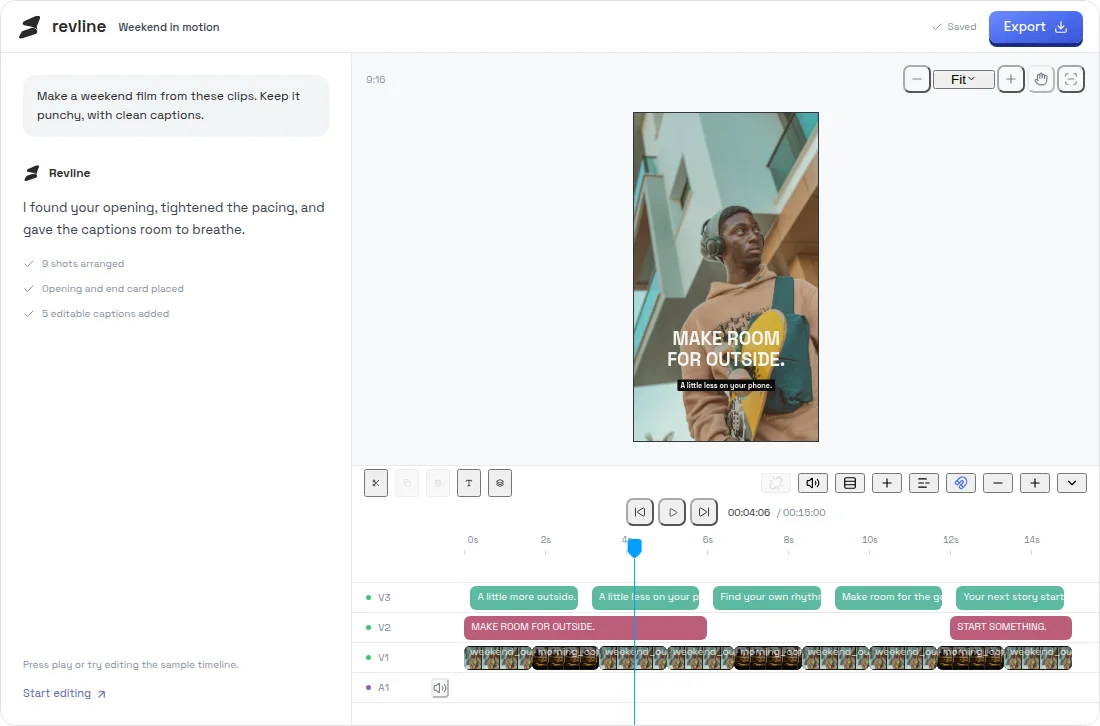
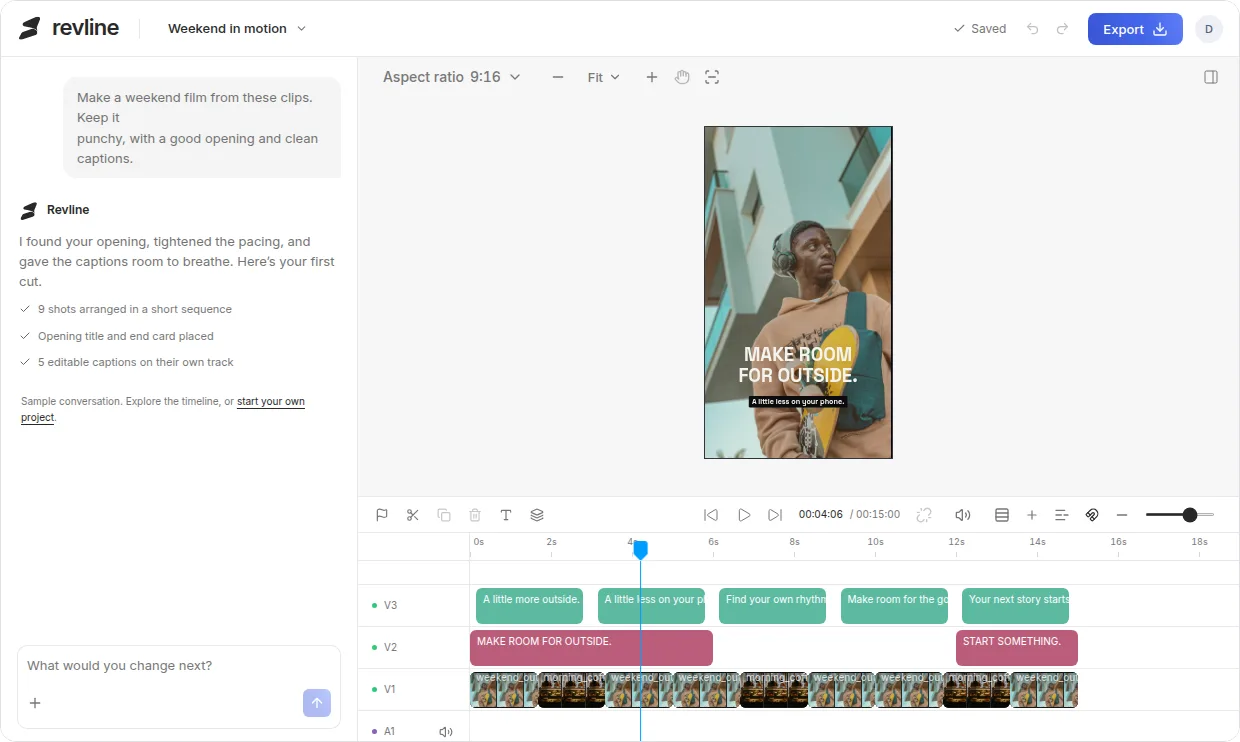
Use current shared editor shell for landing playback demo

diff --git a/app/landing.css b/app/landing.css
@@ -16,49 +16,21 @@ body:has(>.landing),body:has(main.landing){background:#fff}
 .landing-hero-copy{display:flex;flex-direction:column;align-items:center;gap:14px;margin-bottom:40px;width:100%}
 .landing-hero-start[data-slot=button]{margin-top:12px}
 .landing-hero h1{font-size:66px;font-weight:700;letter-spacing:-2.7px;line-height:1.02;width:100%;color:#1c1c1c}.landing-hero-copy>p{width:min(750px,100%);font-size:18px;line-height:1.5;color:#696969}
-/* The landing sample shares preview playback without editing controls. */
-.landing .landing-product-demo.editor-app{--background:#fff;--foreground:#292929;--card:#fff;--secondary:#f2f3f6;--border:transparent;--input:#e4e6ec;--muted:#f2f3f6;--accent:#f2f3f6;--muted-foreground:#7a8290;--primary:#4768ef;--ws-bg:#fff;--ws-text:#292929;--ws-muted:#7a8290;--ws-surface:#f2f3f6;--ws-preview:#f7f8fb;--ws-hover:#f1f3f7;--ws-artifact-bg:#fff;--ws-artifact-border:transparent;position:relative;width:100%;height:auto;min-height:0;border:1px solid #dedfe4;border-radius:16px;overflow:hidden;background:#fff;box-shadow:none;font-family:var(--font-inter),Inter,sans-serif;text-align:left}
-.landing-product-demo::after{display:none}
-.landing-demo-nav{height:52px;min-height:52px;display:flex;align-items:center;gap:20px;padding:0 20px;background:#fff;border:0;border-bottom:1px solid #e9e9ec}
-.landing-demo-brand{flex-shrink:0}
-.landing-demo-project{min-width:0;font-size:11px;font-weight:500;white-space:nowrap;overflow:hidden;text-overflow:ellipsis;color:#394150}
-.landing-demo-saved{display:flex;align-items:center;gap:5px;margin-left:auto;color:#87909e;font-size:10px;white-space:nowrap}
-.landing-demo-nav>.revline-primary[data-slot=button]{flex-shrink:0}
-.landing-demo-nav .revline-brand{font-family:var(--font-inter),Inter,sans-serif;font-size:17px;gap:9px;letter-spacing:0}
-.landing-demo-layout{display:grid;grid-template-columns:minmax(230px,.32fr) minmax(0,.68fr);align-items:stretch;gap:0;padding:0}
-.landing-demo-chat{min-width:0;display:flex;flex-direction:column;gap:24px;padding:22px;border:0;border-right:1px solid #e9e9ec;border-radius:0;background:#fff}
-.landing-demo-request{align-self:flex-end;width:fit-content;max-width:100%;border-radius:12px;padding:12px 14px;background:#f2f3f6!important;color:#292929!important;font:400 12px/1.6 var(--font-inter),Inter,sans-serif}
-.landing-demo-response{display:flex;flex-direction:column;gap:12px}
-.landing-demo-signature{height:24px;display:flex;gap:8px;align-items:center}
-.landing-demo-signature .revline-mark{width:18px;height:18px}
-.landing-demo-signature strong{font-size:12px;font-weight:600}
-.landing-demo-response>p{font:400 13px/1.7 var(--font-inter),Inter,sans-serif;color:#394150}
-.landing-demo-tools{display:flex;flex-direction:column;gap:9px;margin-top:2px}
-.landing-demo-tools>span{display:flex;align-items:center;gap:7px;font-size:10px;line-height:1.6;color:#87909e}
-.landing-demo-tools svg{flex-shrink:0}
-.landing-demo-chat-footer{display:flex;flex-direction:column;align-items:flex-start;gap:12px;margin-top:auto;padding-top:28px}
-.landing-demo-chat-footer>p{font-size:10px;line-height:1.7;color:#87909e}
-.landing-demo-chat-footer>a{display:inline-flex;align-items:center;gap:4px;color:#5266b9;font-size:11px;line-height:1.6}
-.landing-demo-workspace{display:flex;flex-direction:column;gap:0;min-width:0;min-height:0}
-.landing-demo-preview{min-width:0;display:flex;flex-direction:column;gap:8px;padding:12px 14px;border:0;border-radius:0;background:#f7f8fb;overflow:hidden}
-.landing .landing-demo-preview-toolbar.canvas-toolbar{height:28px;min-height:28px;display:flex;align-items:center;justify-content:space-between;padding:0;gap:12px;border:0;background:transparent;color:#88919f;font-size:10px}
-.landing .landing-demo-preview-toolbar .preview-zoom-controls{margin-left:auto}
-.landing .landing-demo-preview-toolbar .preview-zoom-controls [data-slot=button]{color:#7a8290}
-.landing .landing-demo-preview-stage.stage-center{height:clamp(320px,32vw,440px);min-height:0;flex:none;width:100%;overflow:hidden;border-radius:0;background:#f7f8fb}
-.landing .landing-demo-preview .preview-viewport{--preview-viewport-padding:12px}
-.landing .landing-demo-preview .preview-canvas{border:0;border-radius:0;box-shadow:none}
-.landing-demo-timeline{height:260px;flex:none;min-width:0;overflow:hidden;border-top:1px solid #e9e9ec;background:#fff}
-.landing-demo-timeline.is-collapsed{height:56px}
-.landing .landing-demo-timeline .timeline-panel{height:100%;padding:0}
-.landing-demo-text-dialog{--ws-bg:#fff;--ws-text:#292929;--ws-surface:#f2f3f6;--ws-artifact-border:#dedfe4;--ws-muted:#7a8290}
+/* The live sample shares the current editor shell and controls. */
+.landing-product-demo{width:100%;min-width:0;border:1px solid #dedfe4;border-radius:16px;overflow:hidden;text-align:left}
+.landing .landing-product-demo>.editor-app{--background:#fff;--foreground:#292929;--card:#fff;--card-foreground:#292929;--secondary:#f4f4f4;--secondary-foreground:#292929;--muted:#f4f4f4;--muted-foreground:#777;--accent:#f4f4f4;--accent-foreground:#292929;--border:#e9e9e9;--input:#f7f7f7;--ws-bg:#fff;--ws-text:#292929;--ws-muted:#777;--ws-surface:#fff;--ws-preview:#f7f7f7;--ws-hover:#f4f4f4;--ws-border:#e9e9e9;--ws-artifact-bg:#fff;--ws-artifact-border:#e9e9e9;--ws-input:#f7f7f7;--ws-composer-bg:#fff;--ws-composer-border:#cdd1d8;--ws-chip:#f2f2f2;--ws-chip-text:#555;--ws-bubble:#f2f2f2;height:740px;min-height:0;width:100%;background:#fff;font-family:var(--font-inter),Inter,sans-serif}
+.landing-product-demo .workspace-nav{padding-inline:16px}
+.landing-product-demo .workspace-nav-brand{flex-shrink:0}
+.landing-product-demo .editor-sidebar{padding:18px 16px}
+@media(max-width:760px){.landing .landing-product-demo>.editor-app{height:680px}.landing-product-demo .workspace-nav{padding-inline:10px}}
 .landing-workflow{padding-block:64px 88px;display:flex;flex-direction:column;gap:36px;align-items:center}.landing-workflow-grid{display:grid;grid-template-columns:repeat(3,minmax(0,1fr));gap:20px;width:100%}.landing-workflow-card{height:430px;border:0;box-shadow:inset 0 0 0 1px #e3e3e3;border-radius:16px;padding:20px;display:flex;flex-direction:column;gap:22px}.landing-workflow-visual{height:280px;flex-shrink:0;display:flex;flex-direction:column;align-items:center;justify-content:center;gap:20px;padding:20px;border:0;box-shadow:inset 0 0 0 1px #e7e7e7;border-radius:10px;background:#f7f7f7;overflow:hidden;font-family:var(--font-inter),Inter,sans-serif}.landing-workflow-copy{display:flex;flex-direction:column;gap:10px}.landing-workflow-copy h3{font-size:22px;font-weight:500;letter-spacing:-.5px;line-height:1.2;color:#292929}.landing-workflow-copy p{font-size:15px;line-height:1.5;color:#777}.landing-workflow-footage{display:flex;width:100%;height:150px;gap:10px}.landing-workflow-footage img{width:calc((100% - 20px)/3);height:100%;object-fit:cover;border-radius:6px}.landing-workflow-files{height:20px;display:flex;align-items:center;justify-content:center;gap:8px;font-size:11px;color:#777;white-space:nowrap}.landing-workflow-files svg{color:#8b8b8b;flex-shrink:0}.landing-workflow-request{width:264px;max-width:100%;margin-left:auto;padding:11px 14px;background:#ededed;border-radius:10px;font-size:12px;line-height:1.6;color:#3e3e3e}.landing-workflow-answer{display:flex;flex-direction:column;gap:10px;width:100%}.landing-workflow-answer>div{display:flex;gap:7px;align-items:center;height:20px;font-size:12px;color:#393939}.landing-workflow-answer .revline-mark{width:20px;height:20px}.landing-workflow-answer strong{font-weight:500}.landing-workflow-answer p{font-size:12px;line-height:1.7;color:#777}.landing-workflow-film{position:relative;width:108px;height:192px;border-radius:6px;overflow:hidden}.landing-workflow-film img{object-fit:cover;width:100%;height:100%}.landing-workflow-film strong{position:absolute;left:8px;top:140px;font-size:13px;line-height:1.08;font-weight:700;color:white;width:92px}.landing-workflow-export{height:28px;display:flex;align-items:center;gap:12px;width:100%;font-size:11px;color:#777;margin-top:-2px}.landing-workflow-export>span{flex:1;white-space:nowrap}.landing .landing-workflow-export-button[data-slot=button]{height:28px;padding-inline:11px;gap:7px;font-size:11px;border-radius:8px;font-family:var(--font-inter),sans-serif}
 .landing-pricing{padding-block:88px;border-top:1px solid #eaeaea;display:flex;gap:120px;align-items:center}.landing-pricing-copy{flex:1;display:flex;flex-direction:column;gap:18px}.landing-pricing-copy h2{font-size:48px;line-height:1.12;letter-spacing:-1.8px}.landing-pricing-copy p{font-size:16px;line-height:1.5;width:460px;max-width:100%}.landing-price-card{width:400px;flex-shrink:0;border:1px solid #e1e1e1;border-radius:16px;padding:28px;background:#fafafa;display:flex;flex-direction:column;gap:22px}.landing-price-card h3{font-size:20px;font-weight:500;letter-spacing:-.5px;line-height:1.2;color:#262626}.landing-price{display:flex;gap:10px;align-items:flex-end}.landing-price strong{font-size:60px;font-weight:500;line-height:1;letter-spacing:-2.5px}.landing-price>div{display:flex;flex-direction:column;gap:4px;padding-bottom:5px}.landing-price span{font-size:15px;color:#737373}.landing-price small{font-size:11px;color:#949494}.landing-price-disclosure{font-size:14px;line-height:1.6}.landing-price-card hr{border:0;background:#e5e5e5;height:1px;margin:0}.landing-price-card ul{list-style:none;padding:0;display:flex;flex-direction:column;gap:12px}.landing-price-card li{display:flex;gap:9px;align-items:center;font-size:14px;line-height:1;color:#565656}.landing-price-card li svg{color:#818181;flex-shrink:0}.landing .landing-pricing-button[data-slot=button]{width:100%}
 .landing-faq{padding-block:88px;display:flex;gap:96px;border-top:1px solid #eaeaea}.landing-faq h2{width:380px;flex-shrink:0;font-size:36px;line-height:1.15;letter-spacing:-1.1px}.landing-faq-list{flex:1;min-width:0}.landing-faq details{padding:22px 0;border-bottom:1px solid #e4e4e4}.landing-faq summary{list-style:none;display:flex;align-items:center;gap:24px;cursor:pointer;font-size:17px;font-weight:500;line-height:1.4;color:#292929}.landing-faq summary::-webkit-details-marker{display:none}.landing-faq summary>span{margin-left:auto;display:grid;place-items:center;width:24px;height:24px;flex-shrink:0;color:#858585}.landing-faq details p{font-size:15px;line-height:1.65;margin-top:12px;color:#737373}.landing-faq-minus,.landing-faq details[open] .landing-faq-plus{display:none}.landing-faq details[open] .landing-faq-minus{display:block}
 .landing-final-cta{border-top:1px solid #eaeaea;padding-block:64px 72px;display:flex;flex-direction:column;align-items:center;gap:28px;text-align:center}.landing-final-copy{display:flex;flex-direction:column;gap:14px}.landing-final-copy h2{font-size:48px;line-height:1.12;letter-spacing:-1.8px}.landing-final-copy p{font-size:16px;line-height:1.5}.landing-final-action{display:flex;flex-direction:column;gap:16px;align-items:center}
 .landing-footer{border-top:1px solid #e6e6e6;display:flex;flex-direction:column;gap:28px;padding-block:36px 24px}.landing-footer-top,.landing-footer-bottom{display:flex;align-items:center}.landing-footer-top{gap:40px}.landing-footer-top nav{display:flex;align-items:center;gap:26px;margin-left:auto;font-size:14px;color:#696969}.landing-footer-bottom{gap:24px}.landing-footer-bottom p{font-size:12px;color:#909090}.landing-footer-links{display:flex;gap:24px;margin-left:auto}.landing-footer-link{border:0;background:none;padding:0;color:#808080;font:400 12px var(--font-space-grotesk),sans-serif}.landing-legal-dialog,.landing-footage-sheet{background:#fff;color:#292929;color-scheme:light;font-family:var(--font-inter),Inter,sans-serif}.landing-legal-dialog [data-slot=dialog-description]{color:#737373;line-height:1.65}.landing-footage-grid{display:grid;grid-template-columns:1fr 1fr;gap:16px;margin:24px 0}.landing-footage-grid figure{margin:0}.landing-footage-grid img{width:100%;height:140px;object-fit:cover;border-radius:8px}.landing-footage-grid figcaption{font-size:12px;margin-top:8px;color:#737373}
 @media(min-width:1441px){.landing-section{padding-inline:100px}}
-@media(max-width:1100px){.landing-container{width:calc(100% - 80px)}.landing-section{padding-inline:40px}.landing-hero{padding:72px 40px 48px}.landing-nav{gap:24px}.landing-hero h1{font-size:58px}.landing-demo-nav{gap:12px;padding-inline:16px}.landing-demo-history{display:none}.landing-pricing{gap:64px}.landing-faq{gap:48px}.landing-faq h2{width:300px}.landing-workflow-card{padding:16px;height:430px}.landing-workflow-visual{padding:16px}.landing-workflow-files{font-size:9px;gap:4px}.landing-workflow-copy h3{font-size:20px}.landing-workflow-copy p{font-size:14px}.landing-workflow-export{gap:5px}.landing-workflow-export>span{font-size:9px}.landing .landing-workflow-export-button[data-slot=button]{padding-inline:8px;font-size:10px}}
-@media(max-width:760px){.landing-container{width:calc(100% - 40px)}.landing-section{padding-inline:20px}.landing-nav{height:72px;gap:20px}.landing-nav .revline-brand{font-size:22px}.landing-hero{padding:56px 20px 40px;gap:0}.landing-hero h1{font-size:44px;letter-spacing:-1.7px}.landing-hero-copy>p{font-size:16px}.landing h2{font-size:32px;letter-spacing:-1px}.landing-demo-nav{height:48px;min-height:48px;padding-inline:14px;gap:12px}.landing-demo-project{max-width:140px;font-size:10px}.landing-demo-saved{display:none}.landing-demo-nav>.revline-primary[data-slot=button]{margin-left:auto}.landing-demo-nav .revline-brand{font-size:15px}.landing-demo-nav .revline-primary[data-slot=button]{height:28px;padding-inline:11px;font-size:11px}.landing-demo-layout{grid-template-columns:minmax(0,1fr);gap:0;padding:0}.landing-demo-chat{padding:16px;gap:16px;border-right:0;border-bottom:1px solid #e9e9ec}.landing-demo-request{font-size:12px;padding:10px 12px;max-width:280px}.landing-demo-response{gap:8px}.landing-demo-response>p{font-size:12px}.landing-demo-tools{flex-direction:row;flex-wrap:wrap;gap:6px 14px}.landing-demo-chat-footer{padding-top:0;gap:7px}.landing-demo-chat-footer>p{display:none}.landing-demo-workspace{gap:0}.landing-demo-preview{padding:10px}.landing .landing-demo-preview-stage.stage-center{height:320px;min-height:0}.landing-workflow{padding-block:40px 56px;gap:28px}.landing-workflow-grid{grid-template-columns:1fr;gap:20px}.landing-workflow-card{height:430px;padding:20px}.landing-workflow-visual{padding:20px}.landing-workflow-copy h3{font-size:22px}.landing-workflow-copy p{font-size:15px}.landing-workflow-files{font-size:11px;gap:8px}.landing-workflow-export>span{font-size:11px}.landing .landing-workflow-export-button[data-slot=button]{font-size:11px;padding-inline:11px}.landing-pricing{padding-block:56px;flex-direction:column;align-items:stretch;gap:36px}.landing-pricing-copy h2{font-size:38px}.landing-price-card{width:100%;max-width:400px;align-self:center}.landing-faq{padding-block:56px;flex-direction:column;gap:24px}.landing-faq h2{width:100%;font-size:32px}.landing-faq summary{font-size:16px}.landing-final-cta{padding-block:56px;gap:28px}.landing-final-copy h2{font-size:36px}.landing-final-copy p{font-size:15px}.landing-footer{padding-block:32px 24px;gap:24px}.landing-footer-top{flex-direction:column;align-items:flex-start;gap:24px}.landing-footer-top nav{margin:0;gap:20px;flex-wrap:wrap;font-size:13px}.landing-footer-bottom{align-items:flex-start}.landing-footer-links{gap:16px}.landing-footer-link{font-size:11px}}
+@media(max-width:1100px){.landing-container{width:calc(100% - 80px)}.landing-section{padding-inline:40px}.landing-hero{padding:72px 40px 48px}.landing-nav{gap:24px}.landing-hero h1{font-size:58px}.landing-pricing{gap:64px}.landing-faq{gap:48px}.landing-faq h2{width:300px}.landing-workflow-card{padding:16px;height:430px}.landing-workflow-visual{padding:16px}.landing-workflow-files{font-size:9px;gap:4px}.landing-workflow-copy h3{font-size:20px}.landing-workflow-copy p{font-size:14px}.landing-workflow-export{gap:5px}.landing-workflow-export>span{font-size:9px}.landing .landing-workflow-export-button[data-slot=button]{padding-inline:8px;font-size:10px}}
+@media(max-width:760px){.landing-container{width:calc(100% - 40px)}.landing-section{padding-inline:20px}.landing-nav{height:72px;gap:20px}.landing-nav .revline-brand{font-size:22px}.landing-hero{padding:56px 20px 40px;gap:0}.landing-hero h1{font-size:44px;letter-spacing:-1.7px}.landing-hero-copy>p{font-size:16px}.landing h2{font-size:32px;letter-spacing:-1px}.landing-workflow{padding-block:40px 56px;gap:28px}.landing-workflow-grid{grid-template-columns:1fr;gap:20px}.landing-workflow-card{height:430px;padding:20px}.landing-workflow-visual{padding:20px}.landing-workflow-copy h3{font-size:22px}.landing-workflow-copy p{font-size:15px}.landing-workflow-files{font-size:11px;gap:8px}.landing-workflow-export>span{font-size:11px}.landing .landing-workflow-export-button[data-slot=button]{font-size:11px;padding-inline:11px}.landing-pricing{padding-block:56px;flex-direction:column;align-items:stretch;gap:36px}.landing-pricing-copy h2{font-size:38px}.landing-price-card{width:100%;max-width:400px;align-self:center}.landing-faq{padding-block:56px;flex-direction:column;gap:24px}.landing-faq h2{width:100%;font-size:32px}.landing-faq summary{font-size:16px}.landing-final-cta{padding-block:56px;gap:28px}.landing-final-copy h2{font-size:36px}.landing-final-copy p{font-size:15px}.landing-footer{padding-block:32px 24px;gap:24px}.landing-footer-top{flex-direction:column;align-items:flex-start;gap:24px}.landing-footer-top nav{margin:0;gap:20px;flex-wrap:wrap;font-size:13px}.landing-footer-bottom{align-items:flex-start}.landing-footer-links{gap:16px}.landing-footer-link{font-size:11px}}
 @media(prefers-reduced-motion:reduce){.landing *{scroll-behavior:auto}}
 @media(max-width:760px){.landing-hero-copy{gap:12px;margin-bottom:28px}.landing-hero-start[data-slot=button]{margin-top:8px}}
 

diff --git a/components/landing/editor-demo.tsx b/components/landing/editor-demo.tsx
@@ -1,148 +1,9 @@
 'use client';
 
-import { useCallback, useEffect, useRef, useState } from 'react';
-import Link from 'next/link';
-import { useStore } from 'zustand';
-import { ArrowUpRight, Check, Download } from 'lucide-react';
-import { Brand } from '@/components/workspace/brand';
-import { PrimaryButton } from '@/components/workspace/primary-button';
-import { EditorStateProvider } from '@/components/editor/editor-state';
-import { EditorPlaybackControls } from '@/components/editor/playback-controls';
-import { Preview, type PreviewHandle } from '@/components/editor/preview';
-import { PreviewZoomControls, PreviewZoomProvider, PreviewViewport } from '@/components/editor/preview-zoom';
-import { TimelinePanel } from '@/components/editor/timeline';
-import { Button } from '@/components/ui/button';
-import { Dialog, DialogContent, DialogDescription, DialogTitle } from '@/components/ui/dialog';
-import { createEditorStore } from '@/lib/editor/store';
-import { DEMO_ASSETS, DEMO_TIMELINE } from '@/lib/editor/demo';
-import { addTextClip, frameSeekTime, patchClip, placeOnFreeLayer, splitClip } from '@/lib/editor/operations';
-import { isTimelineGestureRejection } from '@/lib/editor/timeline-edit-errors';
-import { dimensions, timelineDuration, normalizeTimeline, type MediaAsset, type Timeline } from '@/lib/editor/types';
+import { DemoEditor } from '@/components/editor/demo-editor';
 import '@/app/editor.css';
 
+/** The landing sample uses the current editor instead of maintaining a second layout. */
 export function ProductDemo() {
-  const [store] = useState(() => {
-    const timeline = normalizeTimeline({ ...DEMO_TIMELINE, clips: DEMO_TIMELINE.clips.map(clip => ({ ...clip, track: clip.kind === 'caption' ? 2 : 1 })) });
-    const instance = createEditorStore(timeline);
-    instance.setState({ playhead: 4.2, compactTracks: true, zoom: .75 });
-    return instance;
-  });
-  const timeline = useStore(store, state => state.timeline);
-  const selected = useStore(store, state => state.selectedId);
-  const playing = useStore(store, state => state.playing);
-  const muted = useStore(store, state => state.muted);
-  const collapsed = useStore(store, state => state.timelineCollapsed);
-  const [assets, setAssets] = useState<MediaAsset[]>(DEMO_ASSETS);
-  const [error, setError] = useState('');
-  const [editingText, setEditingText] = useState<string | null>(null);
-  const preview = useRef<PreviewHandle>(null);
-  const duration = timelineDuration(timeline);
-  const canvas = dimensions(timeline.aspectRatio);
-  const clip = timeline.clips.find(item => item.id === selected);
-  const textClip = timeline.clips.find(item => item.id === editingText);
-  const time = store.getState().playhead;
-  const setTime = useCallback((playhead: number) => store.setState({ playhead }), [store]);
-  const setPlaying = useCallback((playing: boolean) => store.setState({ playing }), [store]);
-  const readTime = useCallback(() => preview.current?.currentTime() ?? store.getState().playhead, [store]);
-  const select = (id: string | null) => store.setState({ selectedId: id, selectedIds: id ? [id] : [] });
-  const change = (next: Timeline) => { store.getState().edit(next); setError(''); };
-  const report = (message: string) => setError(message);
-  const runEdit = (edit: () => Timeline) => {
-    try { change(edit()); }
-    catch (error) { if (!isTimelineGestureRejection(error)) report(error instanceof Error ? error.message : 'This edit could not be completed.'); }
-  };
-  const editText = (id: string) => { select(id); setEditingText(id); };
-  const seek = (next: number) => {
-    const value = frameSeekTime(next, timeline.fps, duration);
-    preview.current?.pause(); preview.current?.seek(value); setTime(value);
-  };
-  const togglePlay = () => {
-    if (playing) preview.current?.pause();
-    else { if (readTime() >= duration) seek(0); preview.current?.play(); }
-  };
-  const jump = (direction: -1 | 1) => {
-    const current = readTime();
-    const cuts = [...new Set([0, duration, ...timeline.clips.filter(item => item.kind === 'video' || item.kind === 'image').flatMap(item => [item.start, item.start + item.duration])])].sort((a, b) => a - b);
-    seek(direction < 0 ? cuts.filter(cut => cut < current - 1 / timeline.fps).at(-1) ?? 0 : cuts.find(cut => cut > current + 1 / timeline.fps) ?? duration);
-  };
-  const split = () => { if (selected) runEdit(() => splitClip(timeline, selected, readTime(), crypto.randomUUID())); };
-  const remove = () => {
-    const ids = new Set(store.getState().selectedIds);
-    if (ids.size) change({ ...timeline, clips: timeline.clips.filter(item => !ids.has(item.id)) });
-  };
-  const duplicate = () => {
-    const ids = new Set(store.getState().selectedIds);
-    const originals = timeline.clips.filter(item => ids.has(item.id));
-    if (!originals.length) return;
-    const offset = Math.max(...originals.map(item => item.start + item.duration)) - Math.min(...originals.map(item => item.start));
-    runEdit(() => originals.reduce((next, item) => placeOnFreeLayer(next, { ...item, id: crypto.randomUUID(), start: item.start + offset }), timeline));
-  };
-
-  useEffect(() => {
-    let cancelled = false;
-    const images = DEMO_ASSETS.filter(asset => asset.kind === 'image' && asset.url).map(asset => {
-      const image = new Image();
-      image.onload = () => { if (!cancelled && image.naturalWidth && image.naturalHeight) setAssets(current => current.map(item => item._id === asset._id ? { ...item, width: image.naturalWidth, height: image.naturalHeight } : item)); };
-      image.src = asset.url!;
-      return image;
-    });
-    return () => { cancelled = true; images.forEach(image => { image.onload = null; }); };
-  }, []);
-
-  return <EditorStateProvider store={store}>
-    <figure className="landing-product-demo editor-app conversation-editor" aria-label="Revline sample edit" tabIndex={-1} onKeyDown={event => {
-      if ((event.target as HTMLElement).closest('input,textarea,select,button,a,[role=button],[role=menuitem]')) return;
-      if (event.code === 'Space') { event.preventDefault(); togglePlay(); }
-      else if (event.key === 'Escape') select(null);
-    }}>
-      <nav className="landing-demo-nav" aria-label="Demo editor navigation">
-        <Link href="/" className="landing-demo-brand" aria-label="Revline home"><Brand /></Link>
-        <span className="landing-demo-project">Weekend in motion</span>
-        <span className="landing-demo-saved"><Check size={12} aria-hidden="true" />Saved</span>
-        <PrimaryButton asChild size="compact"><Link href="/sign-in">Export <Download size={14} aria-hidden="true" /></Link></PrimaryButton>
-      </nav>
-      <div className="landing-demo-layout">
-        <aside className="landing-demo-chat" aria-label="Sample editing conversation">
-          <p className="landing-demo-request">Make a weekend film from these clips. Keep it punchy, with clean captions.</p>
-          <div className="landing-demo-response">
-            <div className="landing-demo-signature"><Brand markOnly /><strong>Revline</strong></div>
-            <p>I found your opening, tightened the pacing, and gave the captions room to breathe.</p>
-            <div className="landing-demo-tools">{['9 shots arranged', 'Opening and end card placed', '5 editable captions added'].map(label => <span key={label}><Check size={12} aria-hidden="true" />{label}</span>)}</div>
-          </div>
-          <div className="landing-demo-chat-footer">
-            <p>{error || 'Press play or try editing the sample timeline.'}</p>
-            <Link href="/sign-in">Start editing<ArrowUpRight size={13} aria-hidden="true" /></Link>
-          </div>
-        </aside>
-        <div className="landing-demo-workspace">
-          <PreviewZoomProvider canvas={canvas}>
-            <section className="landing-demo-preview" aria-label="Sample video preview">
-              <div className="landing-demo-preview-toolbar canvas-toolbar"><span>9:16</span><PreviewZoomControls /></div>
-              <div className="landing-demo-preview-stage stage-center"><PreviewViewport><Preview ref={preview} timeline={timeline} assets={assets} time={time} onTime={setTime} onPlaying={setPlaying} onError={report} muted={muted} selectedClip={clip} onSelectClip={select} onEditText={editText} onClipChange={(id, patch) => change(patchClip(timeline, id, patch))} onVisualChange={patch => { if (clip) change(patchClip(timeline, clip.id, patch)); }} /></PreviewViewport></div>
-            </section>
-          </PreviewZoomProvider>
-          <div className={`landing-demo-timeline ${collapsed ? 'is-collapsed' : ''}`}>
-            <TimelinePanel
-              timeline={timeline} assets={assets} selected={selected} onSelect={select}
-              time={time} playing={playing} readPlaybackTime={readTime} onSeek={seek} onChange={change}
-              onSplit={split} onDelete={remove} onDuplicate={duplicate} onEditText={editText}
-              onAddText={kind => runEdit(() => addTextClip(timeline, crypto.randomUUID(), kind, readTime()))}
-              muted={muted} onToggleMute={() => { store.setState({ muted: !muted }); preview.current?.mute(!muted); }}
-              onPreviewVolume={(id, volume) => preview.current?.clipVolume(id, volume)}
-              onError={report} collapsed={collapsed} onToggleCollapse={() => store.setState({ timelineCollapsed: !collapsed })}
-              playbackControls={<EditorPlaybackControls playing={playing} time={time} duration={duration} fps={timeline.fps} readTime={readTime} onTogglePlay={togglePlay} onPrevious={() => jump(-1)} onNext={() => jump(1)} />}
-            />
-          </div>
-        </div>
-      </div>
-    </figure>
-    <Dialog open={!!textClip} onOpenChange={open => { if (!open) setEditingText(null); }}>
-      <DialogContent className="quick-text-dialog landing-demo-text-dialog"><DialogTitle>Edit the words</DialogTitle><DialogDescription>Try changing a caption in this sample edit.</DialogDescription>
-        <textarea aria-label="Text content" value={textClip?.text ?? ''} maxLength={500} onChange={event => { if (textClip) change(patchClip(timeline, textClip.id, { text: event.target.value })); }} rows={4} />
-        <Button onClick={() => setEditingText(null)}>Done</Button>
-      </DialogContent>
-    </Dialog>
-  </EditorStateProvider>;
+  return <section className="landing-product-demo" aria-label="Revline sample edit"><DemoEditor embedded/></section>;
 }
-
-export { LANDING_DEMO_ASSETS } from './assets';

diff --git a/components/editor/demo-editor.tsx b/components/editor/demo-editor.tsx
@@ -9,7 +9,7 @@ import { MediaAsset, Timeline } from '@/lib/editor/types';
 import { addMediaClip } from '@/lib/editor/operations';
 import { inspectMedia } from '@/lib/editor/media';
 export function DemoEditor({ embedded = false }: { embedded?: boolean } = {}) {
-  const [store]=useState(()=>createEditorStore(DEMO_TIMELINE));const timeline=useStore(store,s=>s.timeline);const history=useStore(store,s=>s.history);const future=useStore(store,s=>s.future);const [assets,setAssets]=useState<MediaAsset[]>(DEMO_ASSETS);const [title,setTitle]=useState('Weekend in motion');const [error,setError]=useState('');
+  const [store]=useState(()=>{const instance=createEditorStore(DEMO_TIMELINE);if(embedded)instance.setState({playhead:4.2,compactTracks:true,zoom:.75});return instance;});const timeline=useStore(store,s=>s.timeline);const history=useStore(store,s=>s.history);const future=useStore(store,s=>s.future);const [assets,setAssets]=useState<MediaAsset[]>(DEMO_ASSETS);const [title,setTitle]=useState('Weekend in motion');const [error,setError]=useState('');
   const urls=useRef<string[]>([]);
   useEffect(()=>{
     let cancelled=false;

diff --git a/components/landing/editor-demo-preview.tsx b/components/landing/editor-demo-preview.tsx
@@ -10,7 +10,7 @@ const InteractiveDemo = dynamic(() => import('./editor-demo').then(module => mod
 
 function DemoPoster() {
   return <span className="landing-demo-poster">
-    <img src="/images/editor-demo-poster.webp" width={1100} height={726} alt="Revline sample edit with footage, captions and timeline" fetchPriority="high"/>
+    <img src="/images/editor-demo-poster.webp" width={1240} height={742} alt="Revline editor with its current conversation, preview and timeline" fetchPriority="high"/>
   </span>;
 }
 

diff --git a/components/landing/editor-demo-preview.css b/components/landing/editor-demo-preview.css
@@ -1,2 +1,3 @@
-.landing-demo-poster{display:block;position:relative;width:100%;aspect-ratio:1100/726;border-radius:16px;overflow:hidden}
-.landing-demo-poster>img{display:block;width:100%;height:auto}
+.landing-demo-poster{display:block;position:relative;width:100%;height:742px;border-radius:16px;overflow:hidden}
+.landing-demo-poster>img{display:block;width:100%;height:100%;object-fit:cover;object-position:top}
+@media(max-width:760px){.landing-demo-poster{height:682px}}
